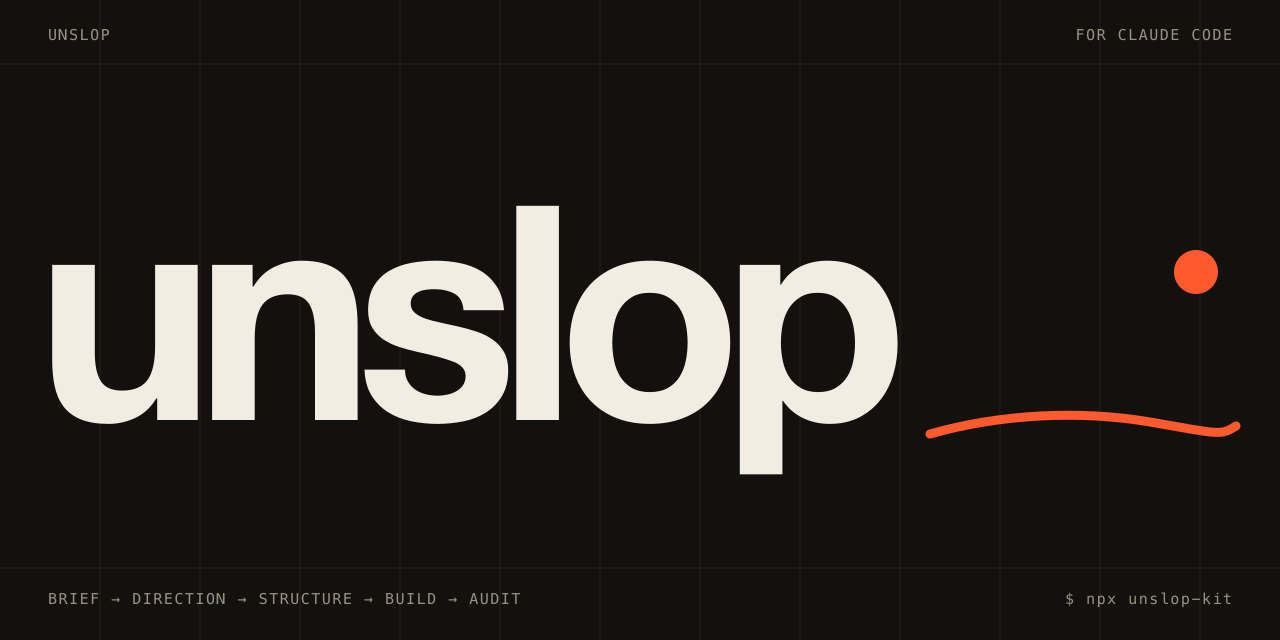
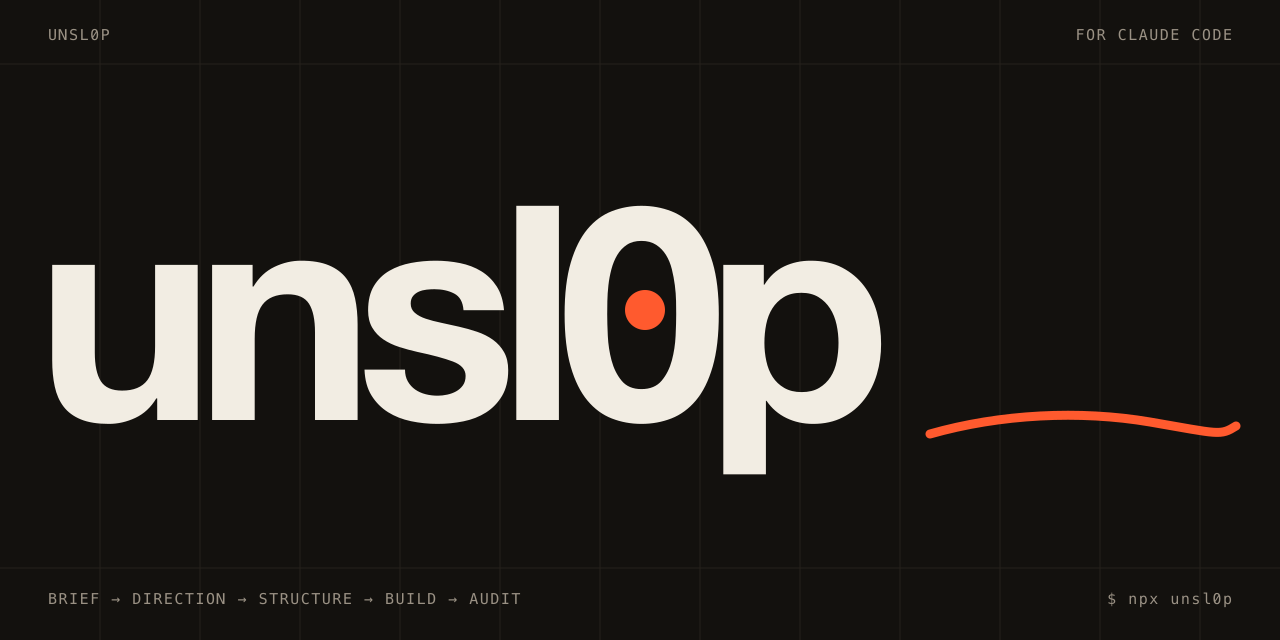
feat!: rename to unsl0p everywhere (npm unsl0p, plugin unsl0p@unsl0p)
- commands /unsl0p:* and /unsl0p-*, folder ~/.claude/unsl0p
- migration from ~/.claude/unslop and ~/.claude/bangers
- banners and social preview read unsl0p

Changed region(s): [[0.4375, 0.3125, 0.7188, 0.75], [0.9062, 0.375, 0.9688, 0.4688], [0.9375, 0.9062, 0.9688, 0.9375]]

diff --git a/README.md b/README.md
@@ -2,26 +2,26 @@
   <picture>
     <source media="(prefers-color-scheme: dark)" srcset="assets/banner-dark.svg">
     <source media="(prefers-color-scheme: light)" srcset="assets/banner-light.svg">
-    <img src="assets/banner-light.svg" alt="unslop: an award-level web design workflow for Claude Code" width="100%">
+    <img src="assets/banner-light.svg" alt="unsl0p: an award-level web design workflow for Claude Code" width="100%">
   </picture>
 </p>
 
 <div align="center">
 
-<code>npx unslop-kit</code>
+<code>npx unsl0p</code>
 
-[![npm](https://img.shields.io/npm/v/unslop-kit?style=flat-square&color=F2471C&label=npm)](https://www.npmjs.com/package/unslop-kit)
-[![CI](https://img.shields.io/github/actions/workflow/status/buildwithrekt/unslop/ci.yml?branch=main&style=flat-square&label=CI)](https://github.com/buildwithrekt/unslop/actions/workflows/ci.yml)
+[![npm](https://img.shields.io/npm/v/unsl0p?style=flat-square&color=F2471C&label=npm)](https://www.npmjs.com/package/unsl0p)
+[![CI](https://img.shields.io/github/actions/workflow/status/buildwithrekt/unsl0p/ci.yml?branch=main&style=flat-square&label=CI)](https://github.com/buildwithrekt/unsl0p/actions/workflows/ci.yml)
 [![Node](https://img.shields.io/badge/node-22%2B-16130F?style=flat-square&logo=nodedotjs&logoColor=white)](package.json)
 [![Claude Code](https://img.shields.io/badge/Claude%20Code-plugin-16130F?style=flat-square)](#claude-code-plugin)
 
-[Install](#install) · [Example](#an-example-session) · [Showcase](#built-with-unslop) · [Commands](#commands) · [Skills](#skills) · [Tutorial](TUTORIAL.md)
+[Install](#install) · [Example](#an-example-session) · [Showcase](#built-with-unsl0p) · [Commands](#commands) · [Skills](#skills) · [Tutorial](TUTORIAL.md)
 
 </div>
 
 ---
 
-**unslop** makes Claude Code work the way a senior web designer would. It asks a few questions, proposes an art direction, waits for your yes, then builds and audits its own work. You get the method behind award-level sites (Awwwards, FWA, CSS Design Awards), plus the production pipelines around a launch: brand kit, press kit, redesign threads and films.
+**unsl0p** makes Claude Code work the way a senior web designer would. It asks a few questions, proposes an art direction, waits for your yes, then builds and audits its own work. You get the method behind award-level sites (Awwwards, FWA, CSS Design Awards), plus the production pipelines around a launch: brand kit, press kit, redesign threads and films.
 
 One command starts a site. The always-on rules keep the agent on the method for every session after that.
 
@@ -32,11 +32,11 @@ All routes need [Claude Code](https://claude.com/claude-code) and Node 22 or lat
 ### The installer (recommended)
 
 ```bash
-npx unslop-kit
+npx unsl0p
 ```
 
 ```text
-┌  unslop v0.3.0
+┌  unsl0p v0.3.0
 │
 ◆  Which skills?
 │  ◼ motion-system (tokens, smooth scroll, reveals, transitions, WebGL loading)
@@ -55,22 +55,22 @@ npx unslop-kit
 └
 ```
 
-The commands are installed as `/unslop-awwwards` and `/unslop-scout`. To skip the prompts, `npx unslop-kit --yes` installs everything globally, and `npx unslop-kit --help` lists every flag.
+The commands are installed as `/unsl0p-awwwards` and `/unsl0p-scout`. To skip the prompts, `npx unsl0p --yes` installs everything globally, and `npx unsl0p --help` lists every flag.
 
 ### Claude Code plugin
 
 ```text
-/plugin marketplace add buildwithrekt/unslop
-/plugin install unslop@unslop
-/unslop:setup
+/plugin marketplace add buildwithrekt/unsl0p
+/plugin install unsl0p@unsl0p
+/unsl0p:setup
 ```
 
-`/unslop:setup` copies the rules and the design watch into `~/.claude/unslop` and adds one import line to your user-level `CLAUDE.md`. Start a new session afterwards. With the plugin, commands are namespaced: `/unslop:awwwards`, `/unslop:scout`.
+`/unsl0p:setup` copies the rules and the design watch into `~/.claude/unsl0p` and adds one import line to your user-level `CLAUDE.md`. Start a new session afterwards. With the plugin, commands are namespaced: `/unsl0p:awwwards`, `/unsl0p:scout`.
 
 ### Skills only
 
 ```bash
-npx skills add buildwithrekt/unslop
+npx skills add buildwithrekt/unsl0p
 ```
 
 Copies the six skill folders and nothing else: no rules, no design watch, no commands. Use this route for other agents, or if you only want the skills.
@@ -86,7 +86,7 @@ npx playwright install chromium
 One brief, typed into Claude Code:
 
 ```text
-/unslop-awwwards A landing page for a specialty coffee roaster in Lisbon.
+/unsl0p-awwwards A landing page for a specialty coffee roaster in Lisbon.
 Warm, editorial, a bit playful. One page, with a shop link.
 ```
 
@@ -138,7 +138,7 @@ This is where most of the quality comes from. Push back: "the palette is too saf
 
 The [tutorial](TUTORIAL.md) walks through a full session and each skill.
 
-## Built with unslop
+## Built with unsl0p
 
 Five live sites, each with its own art direction. Desktop on the left, the same page on a phone on the right. Click any capture to open the site.
 
@@ -184,10 +184,10 @@ Five live sites, each with its own art direction. Desktop on the left, the same 
 
 | Command | What it does |
 |---|---|
-| `/unslop-awwwards <brief>` | Brief, art direction, structure, build, audit and improvements, with validation stops |
-| `/unslop-scout [theme]` | Re-runs the design watch on recent Awwwards Sites of the Day and Dribbble, and appends to your design references |
+| `/unsl0p-awwwards <brief>` | Brief, art direction, structure, build, audit and improvements, with validation stops |
+| `/unsl0p-scout [theme]` | Re-runs the design watch on recent Awwwards Sites of the Day and Dribbble, and appends to your design references |
 
-With the plugin, write them `/unslop:awwwards` and `/unslop:scout`. The plugin adds `/unslop:setup`, which installs or refreshes the rules and the design watch.
+With the plugin, write them `/unsl0p:awwwards` and `/unsl0p:scout`. The plugin adds `/unsl0p:setup`, which installs or refreshes the rules and the design watch.
 
 ## Skills
 
@@ -213,12 +213,12 @@ Claude loads them when the work calls for them. You can also name one: "use the 
 
 ## Update
 
-- Installer: run `npx unslop-kit@latest` again.
-- Plugin: `/plugin marketplace update unslop`, then `/plugin update unslop@unslop`, then `/unslop:setup`.
+- Installer: run `npx unsl0p@latest` again.
+- Plugin: `/plugin marketplace update unsl0p`, then `/plugin update unsl0p@unsl0p`, then `/unsl0p:setup`.
 
 Your design watch is never overwritten. The rules are refreshed, and your previous copy is kept as `rules.md.bak`.
 
-**Coming from `bangers-kit`?** The kit was renamed. Run `npx unslop-kit`: it moves your design watch from `~/.claude/bangers` to `~/.claude/unslop` and updates the import line in `CLAUDE.md`. The old folder is left in place; delete it yourself once you have checked the new one. Old `/bangers-*` commands keep working until you remove them from `~/.claude/commands`.
+**Coming from `bangers-kit` or `unslop`?** The kit was renamed twice. Run `npx unsl0p`: it moves your design watch from the old folder (`~/.claude/bangers` or `~/.claude/unslop`) to `~/.claude/unsl0p` and updates the import line in `CLAUDE.md`. The old folder is left in place; delete it yourself once you have checked the new one. Old `/bangers-*` or `/unslop-*` commands keep working until you remove them from `~/.claude/commands`.
 
 ## Requirements
 

diff --git a/TUTORIAL.md b/TUTORIAL.md
@@ -1,4 +1,4 @@
-# How to use unslop
+# How to use unsl0p
 
 You type what you want in Claude Code. The kit makes Claude work the way a senior web designer would: it asks a few questions, proposes a direction, waits for your yes, then builds and checks its own work. You never run the scripts yourself; Claude does.
 
@@ -9,13 +9,13 @@ You need Claude Code, Node 22 or later, and Google Chrome.
 In your terminal:
 
 ```bash
-npx unslop-kit
+npx unsl0p
 npx playwright install chromium
 ```
 
 Answer the prompts (the defaults install everything). Install `ffmpeg` too if you want videos (`brew install ffmpeg` on a Mac).
 
-Prefer the Claude Code plugin? Run `/plugin marketplace add buildwithrekt/unslop`, then `/plugin install unslop@unslop`, then `/unslop:setup`. With the plugin, the commands below are written `/unslop:awwwards` and `/unslop:scout` instead of `/unslop-awwwards` and `/unslop-scout`.
+Prefer the Claude Code plugin? Run `/plugin marketplace add buildwithrekt/unsl0p`, then `/plugin install unsl0p@unsl0p`, then `/unsl0p:setup`. With the plugin, the commands below are written `/unsl0p:awwwards` and `/unsl0p:scout` instead of `/unsl0p-awwwards` and `/unsl0p-scout`.
 
 Close the session and open a new one. The rules are now loaded in every session.
 
@@ -24,7 +24,7 @@ Close the session and open a new one. The rules are now loaded in every session.
 Make an empty folder, open Claude Code in it, and type:
 
 ```text
-/unslop-awwwards A landing page for a specialty coffee roaster in Lisbon. Warm, editorial, a bit playful. One page, with a shop link.
+/unsl0p-awwwards A landing page for a specialty coffee roaster in Lisbon. Warm, editorial, a bit playful. One page, with a shop link.
 ```
 
 What happens next:
@@ -111,13 +111,13 @@ Claude shows a price estimate before generating anything and the script refuses 
 The kit ships with a study of recent award-winning sites. Claude cites it when it proposes a direction. Refresh it about once a month:
 
 ```text
-/unslop-scout
+/unsl0p-scout
 ```
 
 Or aim it at a theme:
 
 ```text
-/unslop-scout e-commerce
+/unsl0p-scout e-commerce
 ```
 
 It takes a while, because it visits each site in a real browser.
@@ -134,24 +134,24 @@ It takes a while, because it visits each site in a real browser.
 ## 6. Update the kit
 
 ```bash
-npx unslop-kit@latest
+npx unsl0p@latest
 ```
 
 With the plugin instead:
 
 ```bash
-claude plugin marketplace update unslop
-claude plugin update unslop@unslop
+claude plugin marketplace update unsl0p
+claude plugin update unsl0p@unsl0p
 ```
 
-With the plugin, run `/unslop:setup` again in Claude Code. Your own references file is kept.
+With the plugin, run `/unsl0p:setup` again in Claude Code. Your own references file is kept.
 
 ## 7. If something goes wrong
 
 | Problem | Fix |
 |---|---|
-| `/unslop-awwwards` is not found | Run `npx unslop-kit` again, then restart Claude Code (with the plugin: `/unslop:awwwards`, check `claude plugin list`) |
-| Claude ignores the rules | You skipped the rules in the installer (or `/unslop:setup` with the plugin), or you did not open a new session after it |
+| `/unsl0p-awwwards` is not found | Run `npx unsl0p` again, then restart Claude Code (with the plugin: `/unsl0p:awwwards`, check `claude plugin list`) |
+| Claude ignores the rules | You skipped the rules in the installer (or `/unsl0p:setup` with the plugin), or you did not open a new session after it |
 | A render script cannot find a browser | Install Google Chrome, or run `npx playwright install chromium` |
 | Video export fails | Install `ffmpeg` |
 | `scroll-film` refuses to run | That is the spending cap working: raise `FILM_BUDGET` or cut shots |

diff --git a/commands/awwwards.md b/commands/awwwards.md
@@ -5,9 +5,9 @@ argument-hint: [site brief]
 
 Site brief: $ARGUMENTS
 
-Follow this workflow in order, respecting `~/.claude/unslop/rules.md` (read it now if it is not already in context). Stop for validation at the steps marked ⏸.
+Follow this workflow in order, respecting `~/.claude/unsl0p/rules.md` (read it now if it is not already in context). Stop for validation at the steps marked ⏸.
 
-1. **Watch**: read `~/.claude/unslop/design-references.md`. If the watch date is more than 30 days old, offer `/unslop:scout` before continuing.
+1. **Watch**: read `~/.claude/unsl0p/design-references.md`. If the watch date is more than 30 days old, offer `/unsl0p:scout` before continuing.
 2. **Brief**: restate the brief in 3-5 lines (goal, audience, content, constraints). Ask at most 3 questions (audience, tone/universe, admired references). With no answer, decide yourself and state your assumptions. ⏸
 3. **Art direction**: propose a palette (OKLCH tokens), type pairings, grid, motion principles (easings, durations, roles), 2-3 "wow" moments. For each choice, cite the patterns from `design-references.md` that inspire it, reinterpreted and never copied. Flag the anti-patterns avoided. ⏸
 4. **Structure**: page tree, sections of each page with their narrative role, key components, interactions and page transitions, mobile behaviour, `prefers-reduced-motion` version. ⏸

diff --git a/rules/rules.md b/rules/rules.md
@@ -2,8 +2,8 @@
 Design award-worthy websites (Awwwards, FWA, CSS Design Awards): strong art direction, polished motion, flawless performance, real accessibility. Never a "template" or generic result.
 
 # Creative references
-- `~/.claude/unslop/design-references.md` holds the design watch (Awwwards SOTD, Dribbble). It is imported below and loaded in every session: use it for any design or website work.
-- If the watch date at the top of that file is more than 30 days old, offer to refresh it (`/unslop:scout`) and enrich the file without overwriting it.
+- `~/.claude/unsl0p/design-references.md` holds the design watch (Awwwards SOTD, Dribbble). It is imported below and loaded in every session: use it for any design or website work.
+- If the watch date at the top of that file is more than 30 days old, offer to refresh it (`/unsl0p:scout`) and enrich the file without overwriting it.
 - Inspiration, never copying: no code, asset, text or identity taken from an existing site. Extract principles and reinterpret them.
 
 # Before coding a site
@@ -67,4 +67,4 @@ Load the matching skill before starting that kind of work:
 - Reply in the user's language; code, variable names and comments in English
 
 # Design watch (automatic import)
-@~/.claude/unslop/design-references.md
+@~/.claude/unsl0p/design-references.md

diff --git a/commands/setup.md b/commands/setup.md
@@ -8,10 +8,10 @@ Run this and show its output to the user:
 node "${CLAUDE_PLUGIN_ROOT}/cli/setup.mjs"
 ```
 
-It copies the rules and the design watch into the `unslop` folder of the Claude config directory and adds a single import line to the user-level `CLAUDE.md`. It never overwrites the user's design watch and never touches the rest of their `CLAUDE.md`.
+It copies the rules and the design watch into the `unsl0p` folder of the Claude config directory and adds a single import line to the user-level `CLAUDE.md`. It never overwrites the user's design watch and never touches the rest of their `CLAUDE.md`.
 
 Then tell the user:
 1. Start a new session so the rules load.
-2. `/unslop:awwwards <brief>` builds a site; `/unslop:scout` refreshes the design watch.
-3. `/unslop:scout` and the render scripts need Playwright: `npx playwright install chromium`.
+2. `/unsl0p:awwwards <brief>` builds a site; `/unsl0p:scout` refreshes the design watch.
+3. `/unsl0p:scout` and the render scripts need Playwright: `npx playwright install chromium`.
 4. The optional companion skills are listed in the plugin's `README.md` (they are third-party and installed from their own sources).

diff --git a/commands/scout.md b/commands/scout.md
@@ -5,7 +5,7 @@ argument-hint: [optional theme: typography, WebGL, e-commerce…]
 
 Target theme (optional): $ARGUMENTS
 
-Update `~/.claude/unslop/design-references.md` with a new watch.
+Update `~/.claude/unsl0p/design-references.md` with a new watch.
 
 1. **Read what exists**: read the file, note the date of the last watch and the sites already analysed so you don't redo them.
 2. **Collect**:
